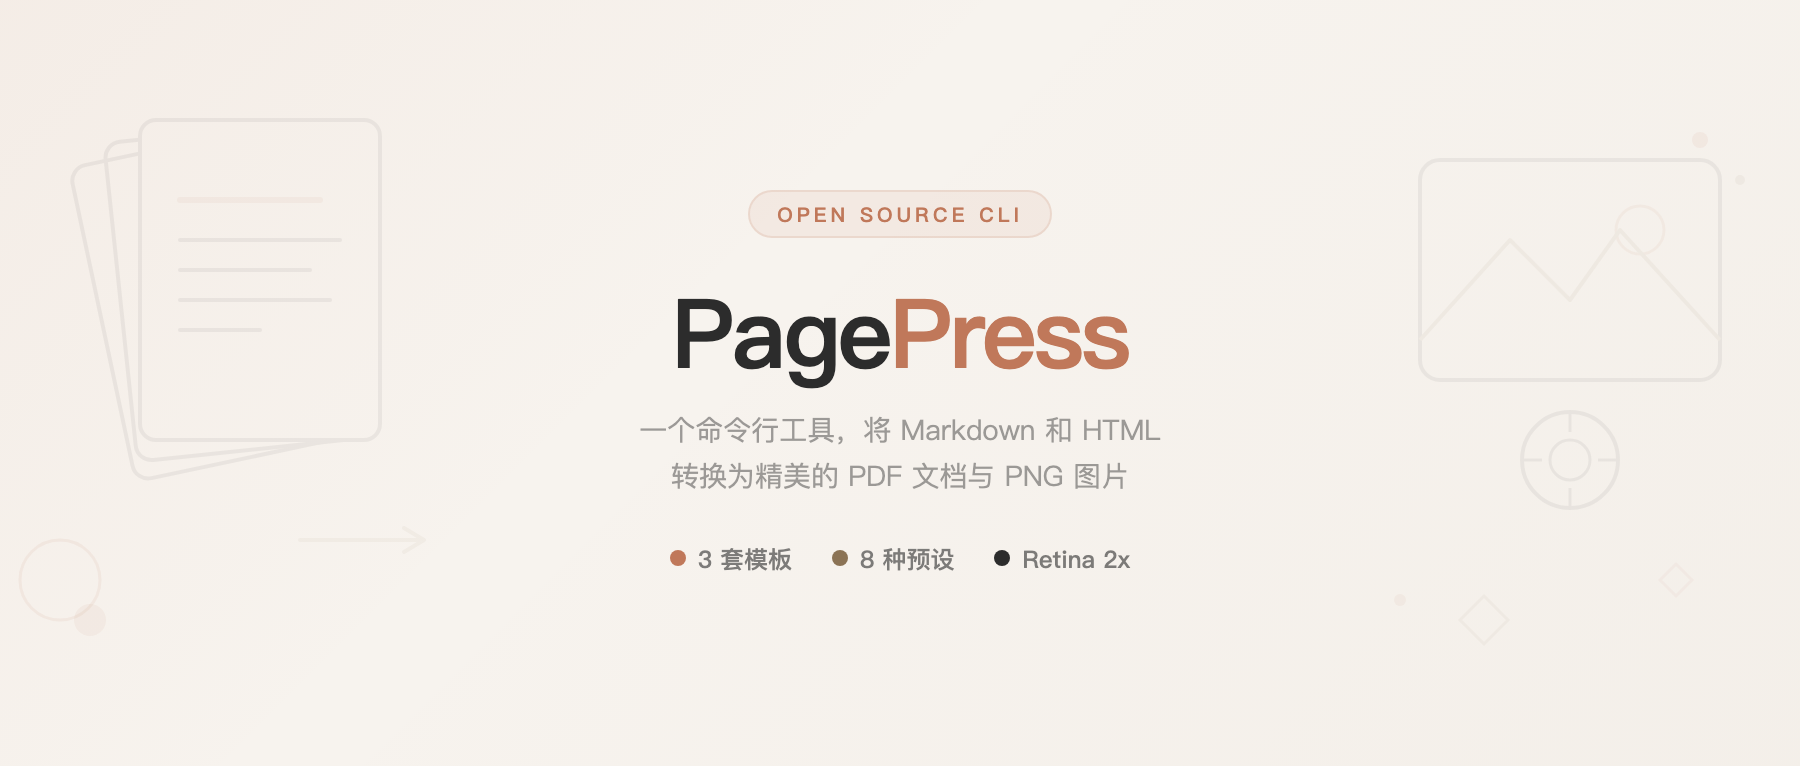
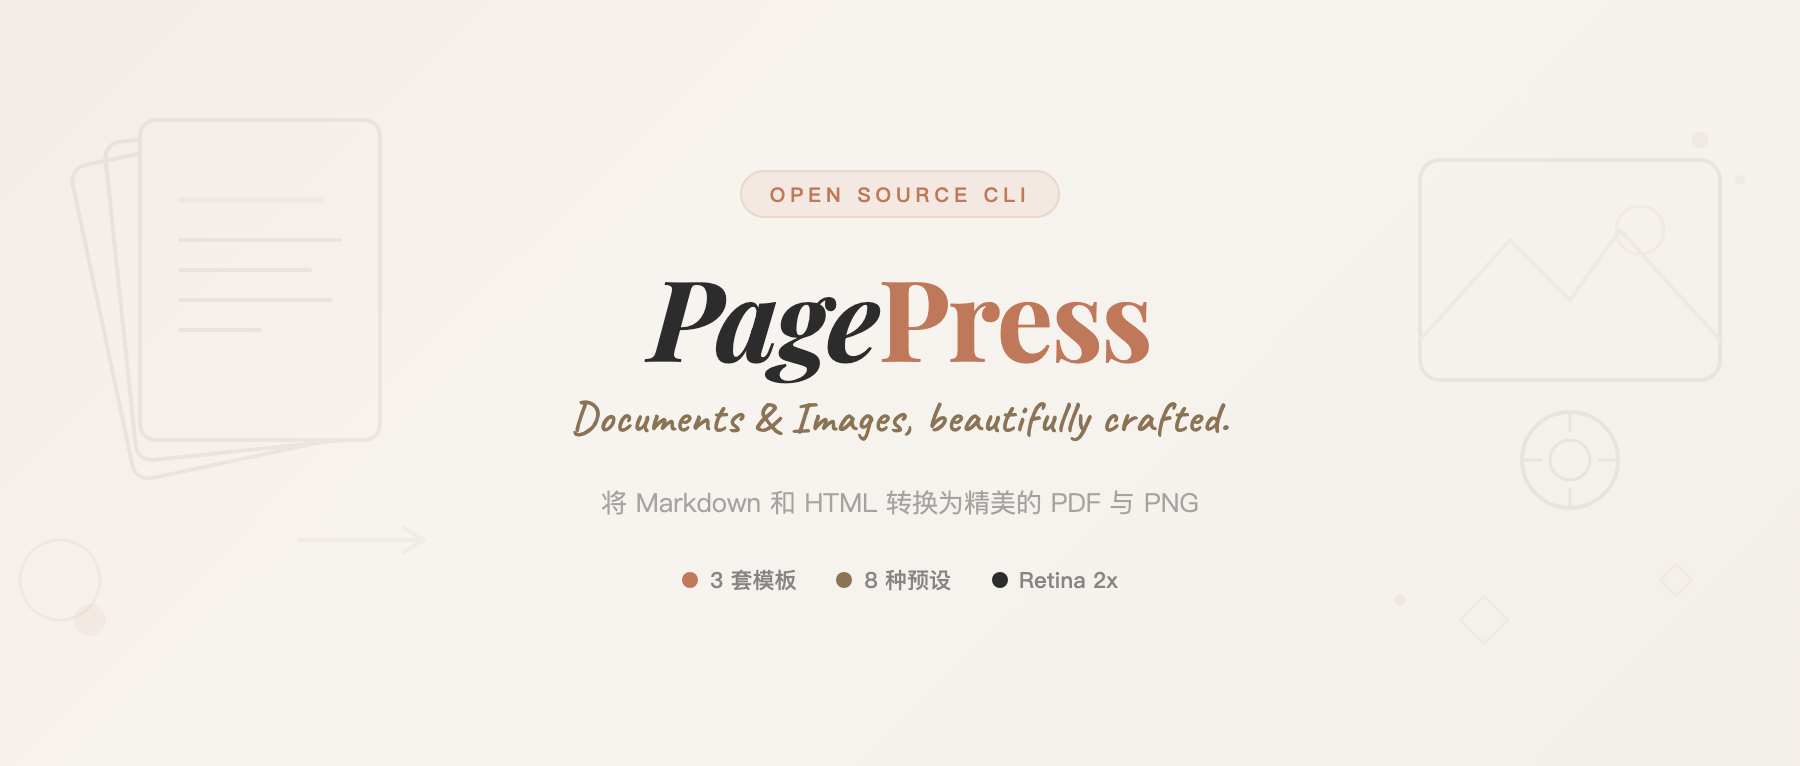
style(examples): add art fonts to wechat cover
Use Playfair Display serif for title and Caveat handwriting
for tagline to add editorial elegance.

diff --git a/examples/shot-wechat.html b/examples/shot-wechat.html
@@ -3,6 +3,7 @@
 <head>
 <meta charset="UTF-8">
 <meta name="viewport" content="width=900, height=383">
+<link href="https://fonts.googleapis.com/css2?family=Playfair+Display:ital,wght@0,700;1,700&family=Caveat:wght@500&display=swap" rel="stylesheet">
 <style>
 /* Elegant Ink: warm parchment + terracotta accent, editorial feel */
 /* Palette: #F7F3EE dominant / #2C2C2C text / #C0785A terracotta / #8B7355 muted gold */
@@ -26,7 +27,7 @@
 
 /* center safe zone content */
 .safe{
-  width:420px;
+  width:440px;
   text-align:center;
   position:relative;z-index:2;
   display:flex;flex-direction:column;
@@ -35,31 +36,45 @@
 
 .badge{
   font-size:10px;font-weight:600;
-  letter-spacing:2px;text-transform:uppercase;
+  letter-spacing:2.5px;text-transform:uppercase;
   color:#C0785A;
   background:rgba(192,120,90,.08);
   border:1px solid rgba(192,120,90,.15);
   padding:4px 14px;border-radius:20px;
-  margin-bottom:20px;
+  margin-bottom:18px;
+  font-family:Inter,-apple-system,sans-serif;
 }
 
 h1{
-  font-size:48px;font-weight:700;
-  color:#2C2C2C;line-height:1.15;
-  letter-spacing:-1.5px;
-  margin-bottom:10px;
+  font-family:'Playfair Display',Georgia,'Noto Serif SC',serif;
+  font-size:56px;font-weight:700;
+  color:#2C2C2C;line-height:1.1;
+  letter-spacing:-1px;
+  margin-bottom:6px;
 }
-h1 em{
+h1 .page{
+  font-style:italic;
+}
+h1 .press{
   font-style:normal;
   color:#C0785A;
 }
 
+/* handwritten tagline */
+.tagline{
+  font-family:'Caveat',cursive;
+  font-size:22px;font-weight:500;
+  color:#8B7355;
+  margin-bottom:18px;
+  letter-spacing:.5px;
+}
+
 .sub{
-  font-size:14px;font-weight:400;
-  color:rgba(44,44,44,.45);
+  font-size:13px;font-weight:400;
+  color:rgba(44,44,44,.4);
   line-height:1.6;
   max-width:340px;
-  margin-bottom:22px;
+  margin-bottom:20px;
 }
 
 /* feature row */
@@ -78,8 +93,9 @@ h1 em{
 .feat-dot.b{background:#8B7355}
 .feat-dot.c{background:#2C2C2C}
 .feat-text{
-  font-size:12px;font-weight:500;
-  color:rgba(44,44,44,.6);
+  font-size:11px;font-weight:500;
+  color:rgba(44,44,44,.55);
+  font-family:Inter,-apple-system,sans-serif;
 }
 
 /* SVG art layers — decorative, can be cropped */
@@ -91,22 +107,18 @@ h1 em{
 
   <!-- Left art: abstract document pages fanning out -->
   <svg class="art" style="left:-10px;top:30px" width="260" height="320" viewBox="0 0 260 320" fill="none">
-    <!-- stacked pages, rotated -->
     <g opacity=".06">
       <rect x="60" y="40" width="120" height="160" rx="8" stroke="#2C2C2C" stroke-width="2" transform="rotate(-12 120 120)"/>
       <rect x="70" y="35" width="120" height="160" rx="8" stroke="#2C2C2C" stroke-width="2" transform="rotate(-6 130 115)"/>
       <rect x="80" y="30" width="120" height="160" rx="8" fill="#F7F3EE" stroke="#2C2C2C" stroke-width="2"/>
-      <!-- text lines on front page -->
       <line x1="100" y1="70" x2="170" y2="70" stroke="#C0785A" stroke-width="3" stroke-linecap="round"/>
       <line x1="100" y1="90" x2="180" y2="90" stroke="#2C2C2C" stroke-width="2" stroke-linecap="round"/>
       <line x1="100" y1="105" x2="165" y2="105" stroke="#2C2C2C" stroke-width="2" stroke-linecap="round"/>
       <line x1="100" y1="120" x2="175" y2="120" stroke="#2C2C2C" stroke-width="2" stroke-linecap="round"/>
       <line x1="100" y1="135" x2="140" y2="135" stroke="#2C2C2C" stroke-width="2" stroke-linecap="round"/>
     </g>
-    <!-- floating circles -->
     <circle cx="40" cy="260" r="20" fill="none" stroke="#C0785A" stroke-width="1.5" opacity=".08"/>
     <circle cx="55" cy="280" r="8" fill="#C0785A" opacity=".06"/>
-    <!-- arrow pointing right -->
     <g opacity=".05">
       <path d="M160 240 L220 240" stroke="#8B7355" stroke-width="2" stroke-linecap="round"/>
       <path d="M212 234 L222 240 L212 246" stroke="#8B7355" stroke-width="2" stroke-linecap="round" stroke-linejoin="round"/>
@@ -115,14 +127,10 @@ h1 em{
 
   <!-- Right art: abstract image/camera frame + geometric shapes -->
   <svg class="art" style="right:-10px;top:20px" width="260" height="340" viewBox="0 0 260 340" fill="none">
-    <!-- image frame with mountain/sun scene -->
     <g opacity=".06">
       <rect x="60" y="60" width="150" height="110" rx="10" stroke="#2C2C2C" stroke-width="2"/>
-      <!-- sun -->
       <circle cx="170" cy="95" r="12" stroke="#C0785A" stroke-width="1.5"/>
-      <!-- mountains -->
       <path d="M60 150 L105 100 L135 130 L160 95 L210 150" stroke="#8B7355" stroke-width="2" stroke-linejoin="round"/>
-      <!-- camera aperture icon below -->
       <circle cx="135" cy="210" r="24" stroke="#2C2C2C" stroke-width="2"/>
       <circle cx="135" cy="210" r="10" stroke="#2C2C2C" stroke-width="1.5"/>
       <line x1="135" y1="186" x2="135" y2="196" stroke="#2C2C2C" stroke-width="1.5"/>
@@ -130,11 +138,9 @@ h1 em{
       <line x1="111" y1="210" x2="121" y2="210" stroke="#2C2C2C" stroke-width="1.5"/>
       <line x1="149" y1="210" x2="159" y2="210" stroke="#2C2C2C" stroke-width="1.5"/>
     </g>
-    <!-- scattered dots -->
     <circle cx="200" cy="50" r="4" fill="#C0785A" opacity=".07"/>
     <circle cx="220" cy="70" r="2.5" fill="#8B7355" opacity=".06"/>
     <circle cx="50" cy="280" r="3" fill="#C0785A" opacity=".06"/>
-    <!-- diamond shapes -->
     <g opacity=".05">
       <path d="M80 290 L92 278 L104 290 L92 302 Z" stroke="#8B7355" stroke-width="1.5"/>
       <path d="M180 270 L188 262 L196 270 L188 278 Z" stroke="#C0785A" stroke-width="1.5"/>
@@ -143,8 +149,9 @@ h1 em{
 
   <div class="safe">
     <div class="badge">Open Source CLI</div>
-    <h1>Page<em>Press</em></h1>
-    <p class="sub">一个命令行工具，将 Markdown 和 HTML<br>转换为精美的 PDF 文档与 PNG 图片</p>
+    <h1><span class="page">Page</span><span class="press">Press</span></h1>
+    <div class="tagline">Documents & Images, beautifully crafted.</div>
+    <p class="sub">将 Markdown 和 HTML 转换为精美的 PDF 与 PNG</p>
     <div class="features">
       <div class="feat">
         <div class="feat-dot a"></div>
